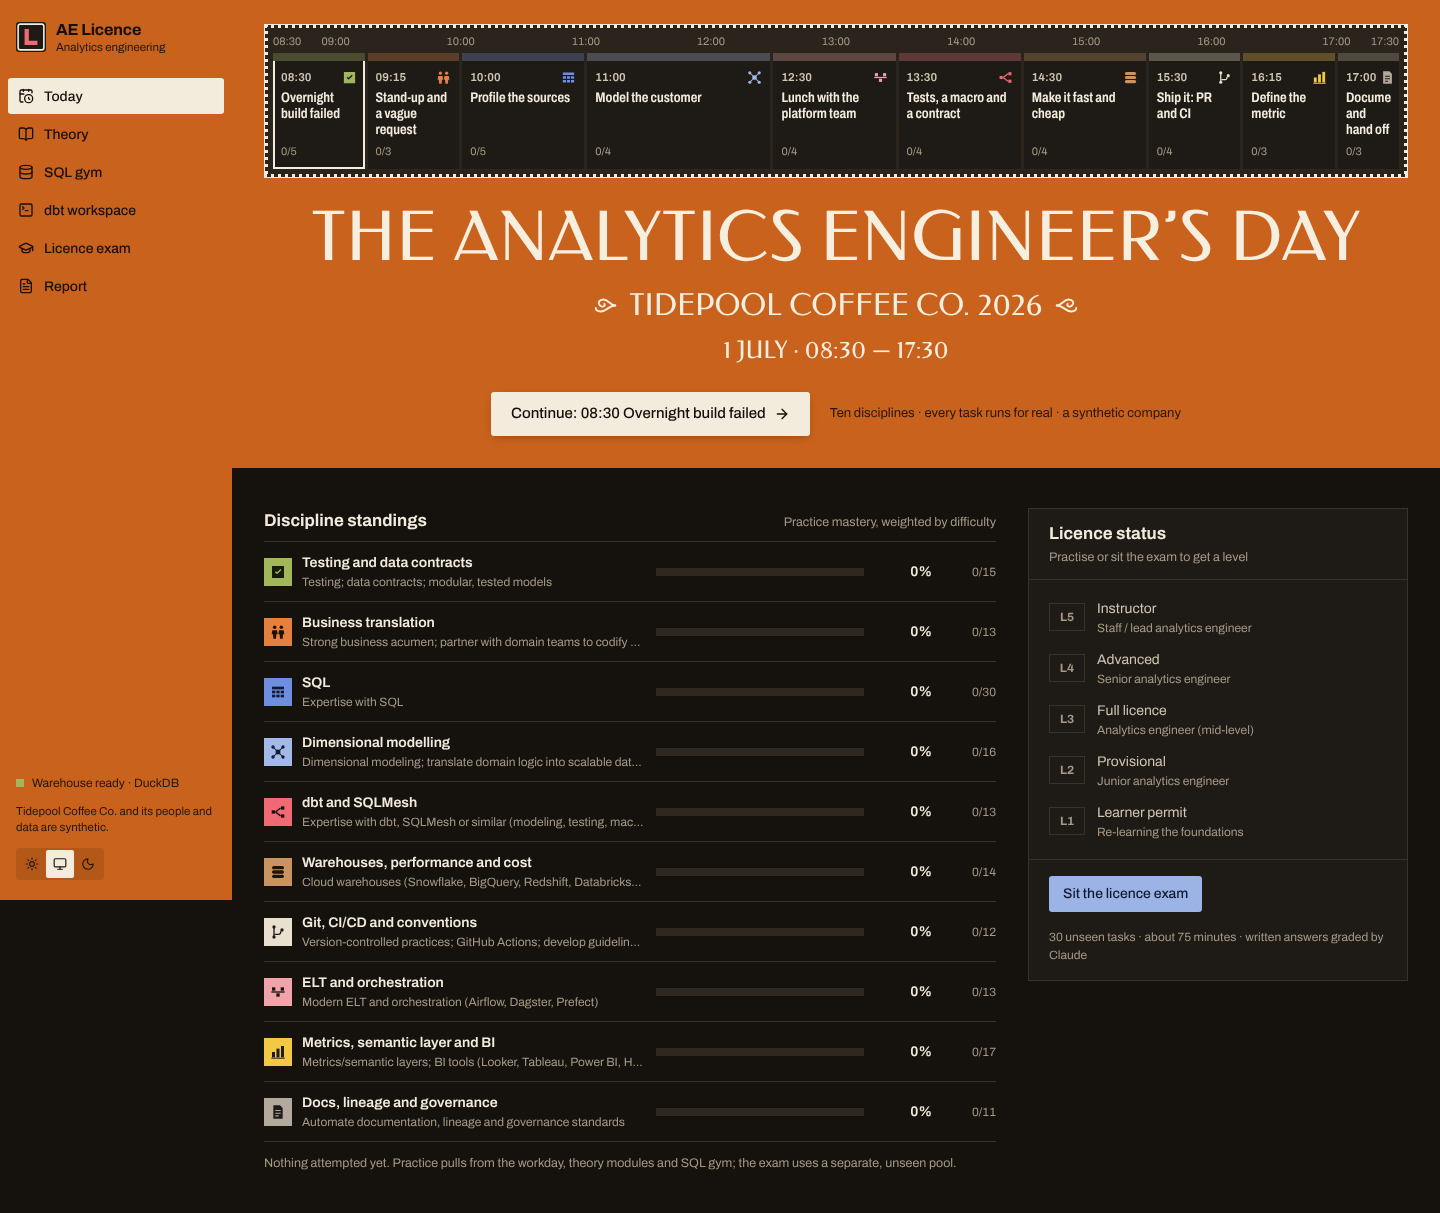
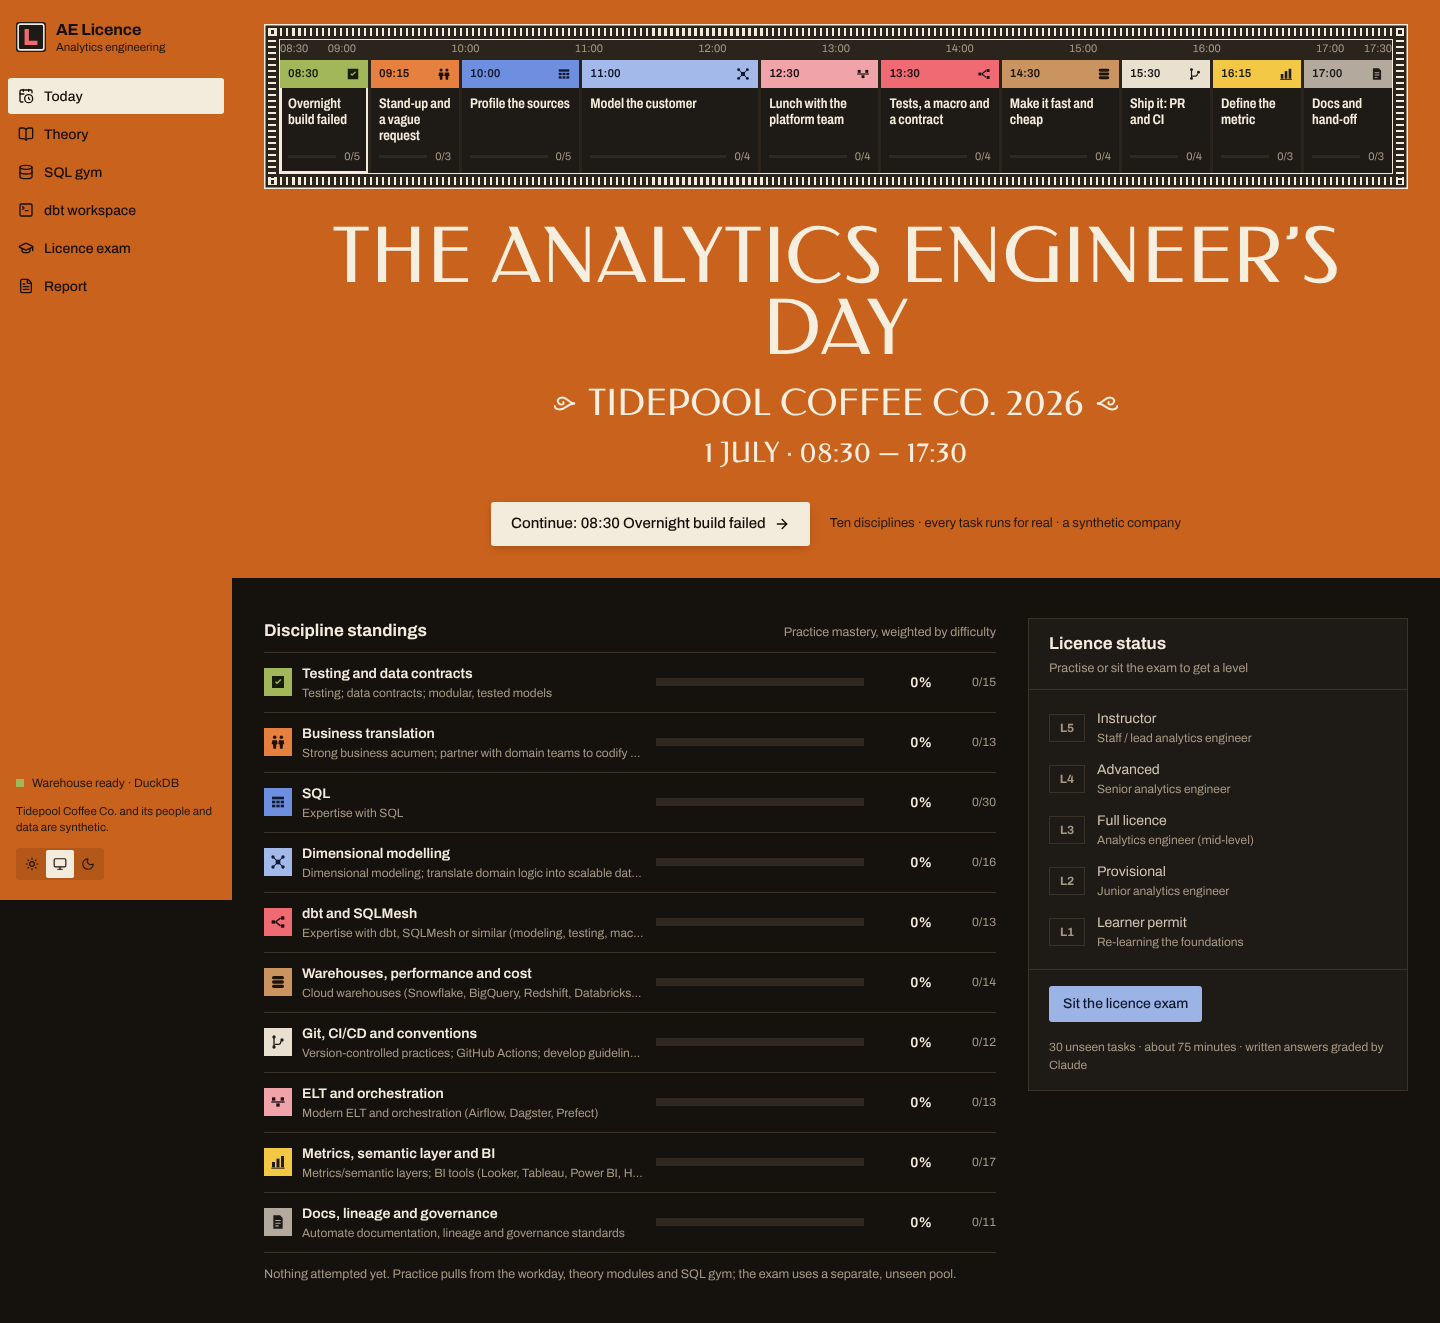
Design review fixes: full flag bands, mobile strip, poster lettering lockup
- Programme cells carry a full-colour flag band; progress moves to a bar
- Horizontally scrolling strip below 1280px so the poster shows on phones
- Shared PosterLettering lockup (>=24px cream on orange); exam intro gets it
- Heavier ticked frame closer to the 1912 poster; licence plate copy fixed
- No kicker above the workday event title; job-ad field in Archivo

Claude-Session: https://claude.ai/code/session_01L58MotJ2gxhCyHN3MALQZg

Changed region(s): [[0.0, 0.0, 1.0, 0.9761], [0.0, 0.0, 0.1562, 0.244]]

diff --git a/src/components/Programme.tsx b/src/components/Programme.tsx
@@ -7,8 +7,6 @@ import { useProgress, type Attempt } from '../store/progress';
 import { Pictogram } from './Pictogram';
 import { cx } from './ui';
 
-const DAY_START = 8 * 60 + 30;
-const DAY_END = 17 * 60 + 30;
 const mins = (t: string) => Number(t.slice(0, 2)) * 60 + Number(t.slice(3));
 
 export function itemDone(item: Item, a?: Attempt) {
@@ -26,91 +24,62 @@ export function nextEvent(progress: Record<string, Attempt>): WorkdayEvent | nul
 }
 
 /**
- * The signature programme strip: the workday as colour-banded events on a time axis.
- * Wide screens get a proportional horizontal schedule; narrow screens a stacked timetable.
+ * The signature programme strip: the workday as flag-coloured events on a time axis.
+ * Wide screens get a proportional schedule; narrower screens a horizontally scrolling row.
  */
 export function ProgrammeStrip({ current, compact }: { current?: string; compact?: boolean }) {
   const progress = useProgress((s) => s.progress);
-  const hours = Array.from({ length: 10 }, (_, i) => 9 + i).filter((h) => h * 60 <= DAY_END);
   return (
     <div>
-      {/* horizontal schedule */}
-      <div className="relative hidden md:block">
-        {!compact && (
-          <div className="relative mb-1 h-4 text-[11px] text-ink-3 tnum" aria-hidden>
-            <span className="absolute left-0">08:30</span>
-            {hours.map((h) => (
-              <span key={h} className="absolute -translate-x-1/2" style={{ left: `${((h * 60 - DAY_START) / (DAY_END - DAY_START)) * 100}%` }}>
-                {String(h).padStart(2, '0')}:00
-              </span>
-            ))}
-            <span className="absolute right-0">17:30</span>
-          </div>
-        )}
+      {/* proportional schedule */}
+      <div className="relative hidden xl:block">
         <ol className="flex w-full gap-[3px]" aria-label="Workday programme">
-          {WORKDAY.map((e) => {
-            const d = DOMAIN_BY_ID[e.domain];
-            const width = mins(e.end) - mins(e.time);
-            const { done, total } = eventProgress(e, progress);
-            const complete = done === total;
-            const isCurrent = current === e.id;
-            return (
-              <li key={e.id} style={{ flexGrow: width, flexBasis: 0 }} className="min-w-0">
-                <Link
-                  to={`/workday/${e.id}`}
-                  aria-current={isCurrent ? 'step' : undefined}
-                  title={`${e.time}–${e.end} · ${e.title} · ${done}/${total} done`}
-                  className={cx(
-                    'group flex h-full flex-col bg-surface no-underline outline-offset-1 transition-colors duration-150 hover:bg-surface-2',
-                    isCurrent && 'ring-2 ring-[var(--ink)] ring-inset',
-                  )}
-                >
-                  <span className="relative block h-2 bg-surface-3" aria-hidden>
-                    <span className="band-fill absolute inset-y-0 left-0" style={{ width: `${(done / total) * 100}%`, background: d.color }} />
-                    <span className="absolute inset-0 opacity-25" style={{ background: d.color }} />
-                  </span>
-                  <span className={cx('flex flex-1 flex-col gap-1 px-2', compact ? 'py-1.5' : 'pt-2 pb-2.5')}>
-                    <span className="flex items-center justify-between gap-1">
-                      <span className="text-[11.5px] font-semibold text-ink-2 tnum">{e.time}</span>
-                      {complete ? <Check size={13} className="shrink-0 text-ok" aria-label="complete" /> : <span style={{ color: d.color }}><Pictogram domain={e.domain} size={compact ? 13 : 15} /></span>}
-                    </span>
-                    {!compact && <span className="font-cond line-clamp-3 text-[14px] leading-[1.15] font-[650] text-ink">{e.title}</span>}
-                    {!compact && (
-                      <span className="mt-auto text-[11px] text-ink-3 tnum">
-                        {done}/{total}
-                      </span>
-                    )}
-                  </span>
-                </Link>
-              </li>
-            );
-          })}
+          {WORKDAY.map((e) => (
+            <li key={e.id} style={{ flexGrow: mins(e.end) - mins(e.time), flexBasis: 0 }} className="min-w-[88px]">
+              <EventCell e={e} done={eventProgress(e, progress).done} current={current === e.id} compact={compact} />
+            </li>
+          ))}
         </ol>
       </div>
-      {/* stacked timetable on small screens */}
-      <ol className="space-y-[3px] md:hidden" aria-label="Workday programme">
-        {WORKDAY.map((e) => {
-          const d = DOMAIN_BY_ID[e.domain];
-          const { done, total } = eventProgress(e, progress);
-          return (
-            <li key={e.id}>
-              <Link to={`/workday/${e.id}`} aria-current={current === e.id ? 'step' : undefined} className={cx('flex items-center gap-3 bg-surface px-3 py-2.5 no-underline', current === e.id && 'ring-2 ring-[var(--ink)] ring-inset')}>
-                <span className="inline-flex size-7 shrink-0 items-center justify-center" style={{ background: d.color, color: d.onColor }} aria-hidden>
-                  <Pictogram domain={e.domain} size={15} />
-                </span>
-                <span className="w-11 text-[12px] font-semibold text-ink-2 tnum">{e.time}</span>
-                <span className="min-w-0 flex-1">
-                  <span className="block truncate text-[14px] font-[620] text-ink">{e.title}</span>
-                  <span className="block text-[12px] text-ink-3">{d.short}</span>
-                </span>
-                <span className="text-[12px] text-ink-3 tnum">
-                  {done === total ? <Check size={14} className="text-ok" aria-label="complete" /> : `${done}/${total}`}
-                </span>
-              </Link>
-            </li>
-          );
-        })}
+      {/* scrolling row */}
+      <ol className="flex snap-x gap-[3px] overflow-x-auto pb-1 xl:hidden" aria-label="Workday programme">
+        {WORKDAY.map((e) => (
+          <li key={e.id} className={cx('shrink-0 snap-start', compact ? 'w-[96px]' : 'w-[128px]')}>
+            <EventCell e={e} done={eventProgress(e, progress).done} current={current === e.id} compact={compact} />
+          </li>
+        ))}
       </ol>
     </div>
+  );
+}
+
+function EventCell({ e, done, current, compact }: { e: WorkdayEvent; done: number; current: boolean; compact?: boolean }) {
+  const d = DOMAIN_BY_ID[e.domain];
+  const total = e.items.length;
+  const complete = done === total;
+  return (
+    <Link
+      to={`/workday/${e.id}`}
+      aria-current={current ? 'step' : undefined}
+      title={`${e.time}–${e.end} · ${e.title} · ${done}/${total} done`}
+      className={cx('flex h-full flex-col bg-surface no-underline outline-offset-1 transition-colors duration-150 hover:bg-surface-2', current && 'ring-2 ring-[var(--ink)] ring-inset')}
+    >
+      {/* the flag band: full discipline colour, with the event's pictogram */}
+      <span className={cx('flex items-center justify-between px-2', compact ? 'h-6' : 'h-7')} style={{ background: d.color, color: d.onColor }}>
+        <span className="text-[11.5px] font-semibold tnum">{e.time}</span>
+        {complete ? <Check size={14} strokeWidth={3} aria-label="complete" /> : <Pictogram domain={e.domain} size={14} />}
+      </span>
+      <span className={cx('flex flex-1 flex-col gap-1 px-2', compact ? 'py-1.5' : 'pt-2 pb-2')}>
+        <span className={cx('font-cond leading-[1.15] font-[650] text-ink', compact ? 'line-clamp-2 text-[12.5px]' : 'line-clamp-3 text-[14px]')}>{e.title}</span>
+        {!compact && (
+          <span className="mt-auto flex items-center gap-2 text-[11px] text-ink-3 tnum">
+            <span className="h-[3px] flex-1 bg-surface-3" aria-hidden>
+              <span className="band-fill block h-full bg-[var(--ink-2)]" style={{ width: `${(done / total) * 100}%` }} />
+            </span>
+            {done}/{total}
+          </span>
+        )}
+      </span>
+    </Link>
   );
 }

diff --git a/src/pages/Exam.tsx b/src/pages/Exam.tsx
@@ -6,7 +6,8 @@ import { EXAM, EXAM_TIME_LIMIT_MIN } from '../content/exam';
 import { ItemView } from '../components/items/ItemView';
 import { Pictogram } from '../components/Pictogram';
 import { Page } from '../components/Shell';
-import { Button, ButtonLink, PageHeader, cx } from '../components/ui';
+import { Button, ButtonLink, cx } from '../components/ui';
+import { PosterLettering } from '../components/Poster';
 import { isAutoGraded } from '../lib/scoring';
 import { useProgress, type ExamAnswer } from '../store/progress';
 
@@ -37,11 +38,14 @@ export function ExamIntro() {
 
   const field = 'w-full rounded-[3px] border border-line-strong bg-surface px-3 py-2 text-[14px] text-ink placeholder:text-ink-3';
   return (
+    <>
+    <section aria-labelledby="exam-title" className="bg-[var(--poster)] px-4 pt-10 pb-10 sm:px-8">
+      <PosterLettering id="exam-title" title="The licence exam" subtitle="Ten disciplines" meta={`${EXAM.length} tasks · ${EXAM_TIME_LIMIT_MIN} minutes`} />
+    </section>
     <Page>
-      <PageHeader
-        title="The licence exam"
-        lead={`${EXAM.length} unseen tasks across the ten disciplines, in workday order. About ${EXAM_TIME_LIMIT_MIN} minutes. No feedback until you finish, like a real test. Then you export a report and Claude grades your written answers, reviews your SQL and dbt work, sets your level against the job ad, and writes you a focus plan.`}
-      />
+      <p className="max-w-[75ch] text-[15px] leading-relaxed text-ink-2">
+        {EXAM.length} unseen tasks across the ten disciplines, in workday order. No feedback until you finish, like a real test. Then you export a report and Claude grades your written answers, reviews your SQL and dbt work, sets your level against the job ad, and writes you a focus plan.
+      </p>
       {live && (
         <div className="mt-6 flex flex-wrap items-center justify-between gap-3 bg-warn-soft px-4 py-3">
           <p className="text-[14px] text-ink">
@@ -87,7 +91,7 @@ export function ExamIntro() {
             <label className="grid gap-1">
               <span className="text-[13px] font-medium text-ink">Target job ad</span>
               <span className="text-[12.5px] text-ink-3">Pre-filled with the ad you shared. Paste another one to be assessed against it instead.</span>
-              <textarea className={cx(field, 'font-mono text-[12.5px]')} rows={10} value={profile.jobAd} onChange={(e) => setProfile({ jobAd: e.target.value })} />
+              <textarea className={cx(field, 'text-[13.5px] leading-relaxed')} rows={10} value={profile.jobAd} onChange={(e) => setProfile({ jobAd: e.target.value })} />
             </label>
           </div>
         </section>
@@ -119,6 +123,7 @@ export function ExamIntro() {
         </aside>
       </div>
     </Page>
+    </>
   );
 }
 

diff --git a/src/pages/Home.tsx b/src/pages/Home.tsx
@@ -6,6 +6,7 @@ import { EXAM } from '../content/exam';
 import { Page } from '../components/Shell';
 import { ProgrammeStrip, nextEvent } from '../components/Programme';
 import { Pictogram } from '../components/Pictogram';
+import { PosterLettering } from '../components/Poster';
 import { ButtonLink, Meter } from '../components/ui';
 import { LEVELS, practiceLevel, practiceMastery, scoreExam } from '../lib/scoring';
 import { useProgress } from '../store/progress';
@@ -29,16 +30,10 @@ export function Home() {
           <div className="ticked-frame">
             <ProgrammeStrip current={next?.id} />
           </div>
-          <div className="mt-7 text-center text-[var(--poster-ink)]">
-            <h1 id="day-title" className="font-display text-[40px] leading-[0.95] uppercase sm:text-[56px] lg:text-[68px]">
-              The analytics engineer’s day
-            </h1>
-            <p className="font-display mt-3 flex items-center justify-center gap-3 text-[20px] uppercase sm:text-[30px]">
-              <Swash /> Tidepool Coffee Co. 2026 <Swash flip />
-            </p>
-            <p className="font-display mt-1 text-[18px] uppercase tnum sm:text-[24px]">1 July · 08:30 — 17:30</p>
+          <div className="mt-8">
+            <PosterLettering id="day-title" title="The analytics engineer’s day" subtitle="Tidepool Coffee Co. 2026" meta="1 July · 08:30 — 17:30" />
           </div>
-          <div className="mt-6 flex flex-wrap items-center justify-center gap-x-5 gap-y-3">
+          <div className="mt-7 flex flex-wrap items-center justify-center gap-x-5 gap-y-3">
             {next ? (
               <ButtonLink to={`/workday/${next.id}`} variant="poster" className="h-11 px-5 text-[15px]">
                 Continue: {next.time} {next.title} <ArrowRight size={16} aria-hidden />
@@ -150,12 +145,3 @@ export function Home() {
   );
 }
 
-/** A Jugendstil scroll, after the ornaments flanking "Stockholm 1912". */
-function Swash({ flip }: { flip?: boolean }) {
-  return (
-    <svg viewBox="0 0 40 20" width="34" height="17" aria-hidden className={flip ? '-scale-x-100' : undefined} fill="none" stroke="currentColor" strokeWidth="2.2" strokeLinecap="round">
-      <path d="M38 10c-6 0-8-7-14-7-5 0-7 4-4 7 3 3 7 0 5-2" />
-      <path d="M38 10c-8 0-10 7-17 7-4 0-6-2-6-4" />
-    </svg>
-  );
-}

diff --git a/src/pages/Results.tsx b/src/pages/Results.tsx
@@ -49,11 +49,12 @@ function ExamReportView({ exam }: { exam: ExamSession }) {
     <>
       <section className="mt-6 grid gap-6 lg:grid-cols-[360px_minmax(0,1fr)]" aria-label="Result">
         <div className="ticked-frame self-start">
-          <div className="bg-[var(--poster)] px-6 py-6 text-center text-[var(--poster-ink)]">
-            <p className="font-display text-[18px] uppercase">Provisional licence</p>
-            <p className="font-display mt-2 text-[76px] leading-none">{result.level.code}</p>
-            <p className="font-display mt-2 text-[26px] leading-tight uppercase">{result.level.plate}</p>
+          <div>
+          <div className="bg-[var(--poster)] px-6 py-7 text-center text-[var(--poster-ink)]">
+            <p className="font-display text-[84px] leading-none">{result.level.code}</p>
+            <p className="font-display mt-2 text-[28px] leading-tight uppercase">{result.level.plate}</p>
           </div>
+          <p className="bg-[var(--ink)] px-5 py-1.5 text-center text-[12.5px] font-medium text-[var(--surface)]">Provisional · pending Claude’s grading of {result.openPending} written answers</p>
           <div className="bg-surface px-5 py-4">
             <p className="text-[15px] font-[650] text-ink">{result.level.role}</p>
             <p className="mt-1 text-[13px] leading-relaxed text-ink-2">{result.level.description}</p>
@@ -78,7 +79,8 @@ function ExamReportView({ exam }: { exam: ExamSession }) {
                 </li>
               ))}
             </ol>
-            <p className="mt-3 text-[12px] leading-snug text-ink-3">{result.levelReason} Claude finalises it after grading your {result.openPending} written answers.</p>
+            <p className="mt-3 text-[12px] leading-snug text-ink-3">{result.levelReason}</p>
+          </div>
           </div>
         </div>
 

diff --git a/src/index.css b/src/index.css
@@ -285,16 +285,27 @@
   letter-spacing: 0.01em;
 }
 
-/* signature: the poster's ticked frame */
+/* signature: the poster's ticked frame — a cream band of black ticks between two ink rules */
 .ticked-frame {
-  padding: 9px;
+  position: relative;
+  padding: 16px;
+  background: var(--tick-ground);
+  box-shadow: inset 0 0 0 1.5px var(--tick);
+}
+.ticked-frame::before {
+  content: '';
+  position: absolute;
+  inset: 4px;
+  pointer-events: none;
   background:
-    repeating-linear-gradient(90deg, var(--tick) 0 3px, transparent 3px 7px) top / 100% 4px no-repeat,
-    repeating-linear-gradient(90deg, var(--tick) 0 3px, transparent 3px 7px) bottom / 100% 4px no-repeat,
-    repeating-linear-gradient(180deg, var(--tick) 0 3px, transparent 3px 7px) left / 4px 100% no-repeat,
-    repeating-linear-gradient(180deg, var(--tick) 0 3px, transparent 3px 7px) right / 4px 100% no-repeat,
-    var(--tick-ground);
-  box-shadow: inset 0 0 0 1px var(--tick);
+    repeating-linear-gradient(90deg, var(--tick) 0 2.5px, transparent 2.5px 6px) top / 100% 8px no-repeat,
+    repeating-linear-gradient(90deg, var(--tick) 0 2.5px, transparent 2.5px 6px) bottom / 100% 8px no-repeat,
+    repeating-linear-gradient(180deg, var(--tick) 0 2.5px, transparent 2.5px 6px) left / 8px 100% no-repeat,
+    repeating-linear-gradient(180deg, var(--tick) 0 2.5px, transparent 2.5px 6px) right / 8px 100% no-repeat;
+}
+.ticked-frame > * {
+  position: relative;
+  outline: 1.5px solid var(--tick);
 }
 
 /* condensed voice for event titles and big numerals */

diff --git a/src/components/Poster.tsx b/src/components/Poster.tsx
@@ -1,0 +1,23 @@
+/** The 1912 poster lettering lockup: a large first line, a swash-flanked second line, a meta line. */
+export function Swash({ flip }: { flip?: boolean }) {
+  return (
+    <svg viewBox="0 0 40 20" width="34" height="17" aria-hidden className={flip ? 'shrink-0 -scale-x-100' : 'shrink-0'} fill="none" stroke="currentColor" strokeWidth="2.2" strokeLinecap="round">
+      <path d="M38 10c-6 0-8-7-14-7-5 0-7 4-4 7 3 3 7 0 5-2" />
+      <path d="M38 10c-8 0-10 7-17 7-4 0-6-2-6-4" />
+    </svg>
+  );
+}
+
+export function PosterLettering({ id, title, subtitle, meta }: { id?: string; title: string; subtitle: string; meta: string }) {
+  return (
+    <div className="text-center text-[var(--poster-ink)]">
+      <h1 id={id} className="font-display text-[42px] leading-[0.95] uppercase sm:text-[60px] lg:text-[76px]">
+        {title}
+      </h1>
+      <p className="font-display mt-4 flex items-center justify-center gap-3 text-[26px] leading-tight uppercase sm:text-[36px]">
+        <Swash /> {subtitle} <Swash flip />
+      </p>
+      <p className="font-display mt-1.5 text-[24px] uppercase tnum sm:text-[28px]">{meta}</p>
+    </div>
+  );
+}

diff --git a/src/pages/WorkdayEventPage.tsx b/src/pages/WorkdayEventPage.tsx
@@ -33,10 +33,10 @@ export function WorkdayEventPage() {
               <Pictogram domain={e.domain} size={22} />
             </span>
             <div>
-              <p className="text-[13px] font-semibold text-ink-2 tnum">
+              <h1 className="font-display text-[34px] leading-[1.05] uppercase text-ink">{e.title}</h1>
+              <p className="mt-1 text-[13px] font-semibold text-ink-2 tnum">
                 {e.time}–{e.end} · {d.name}
               </p>
-              <h1 className="font-display text-[34px] leading-[1.05] uppercase text-ink">{e.title}</h1>
             </div>
           </div>
 

diff --git a/src/content/workday.ts b/src/content/workday.ts
@@ -1209,7 +1209,7 @@ from first_orders f`,
     time: '17:00',
     end: '17:30',
     domain: 'governance',
-    title: 'Document and hand off',
+    title: 'Docs and hand-off',
     tagline: 'Docs, PII and the Slack reply',
     moduleId: 'governance',
     brief: {
